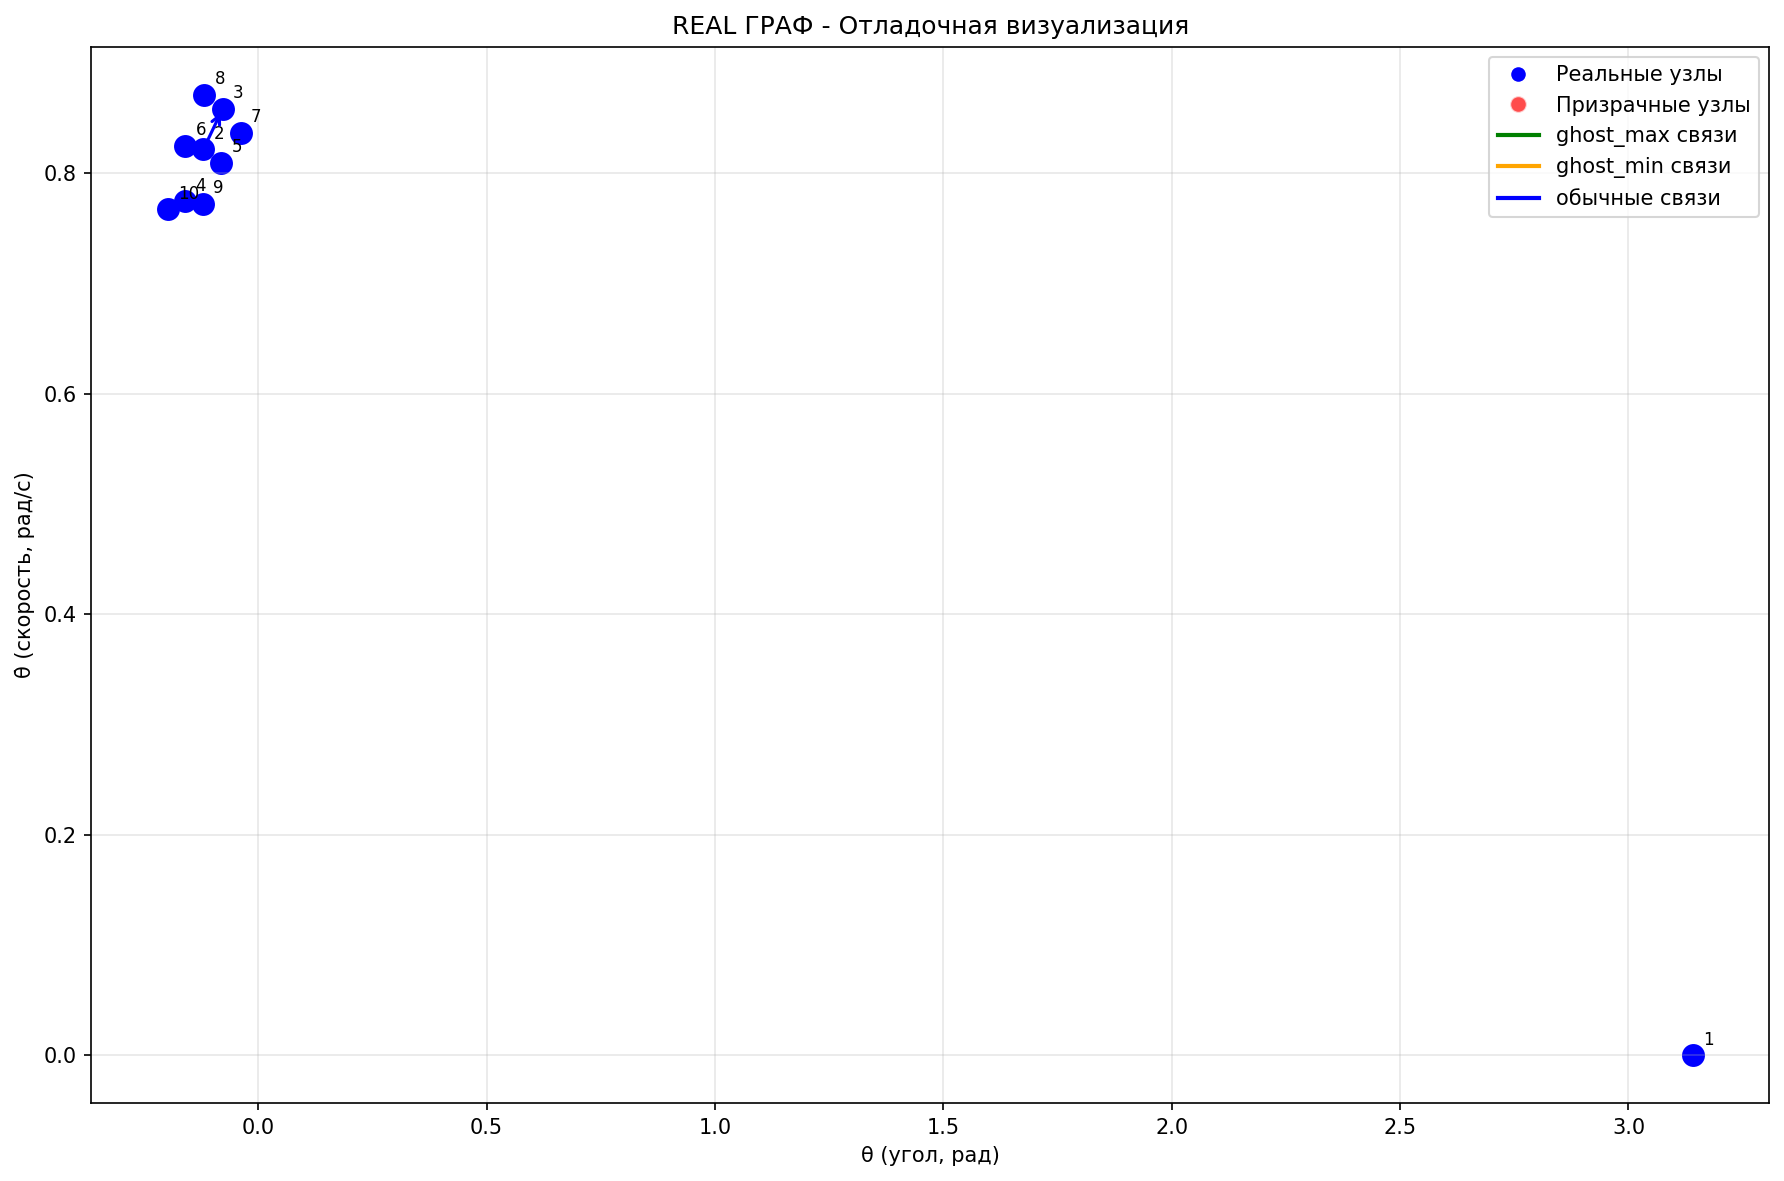
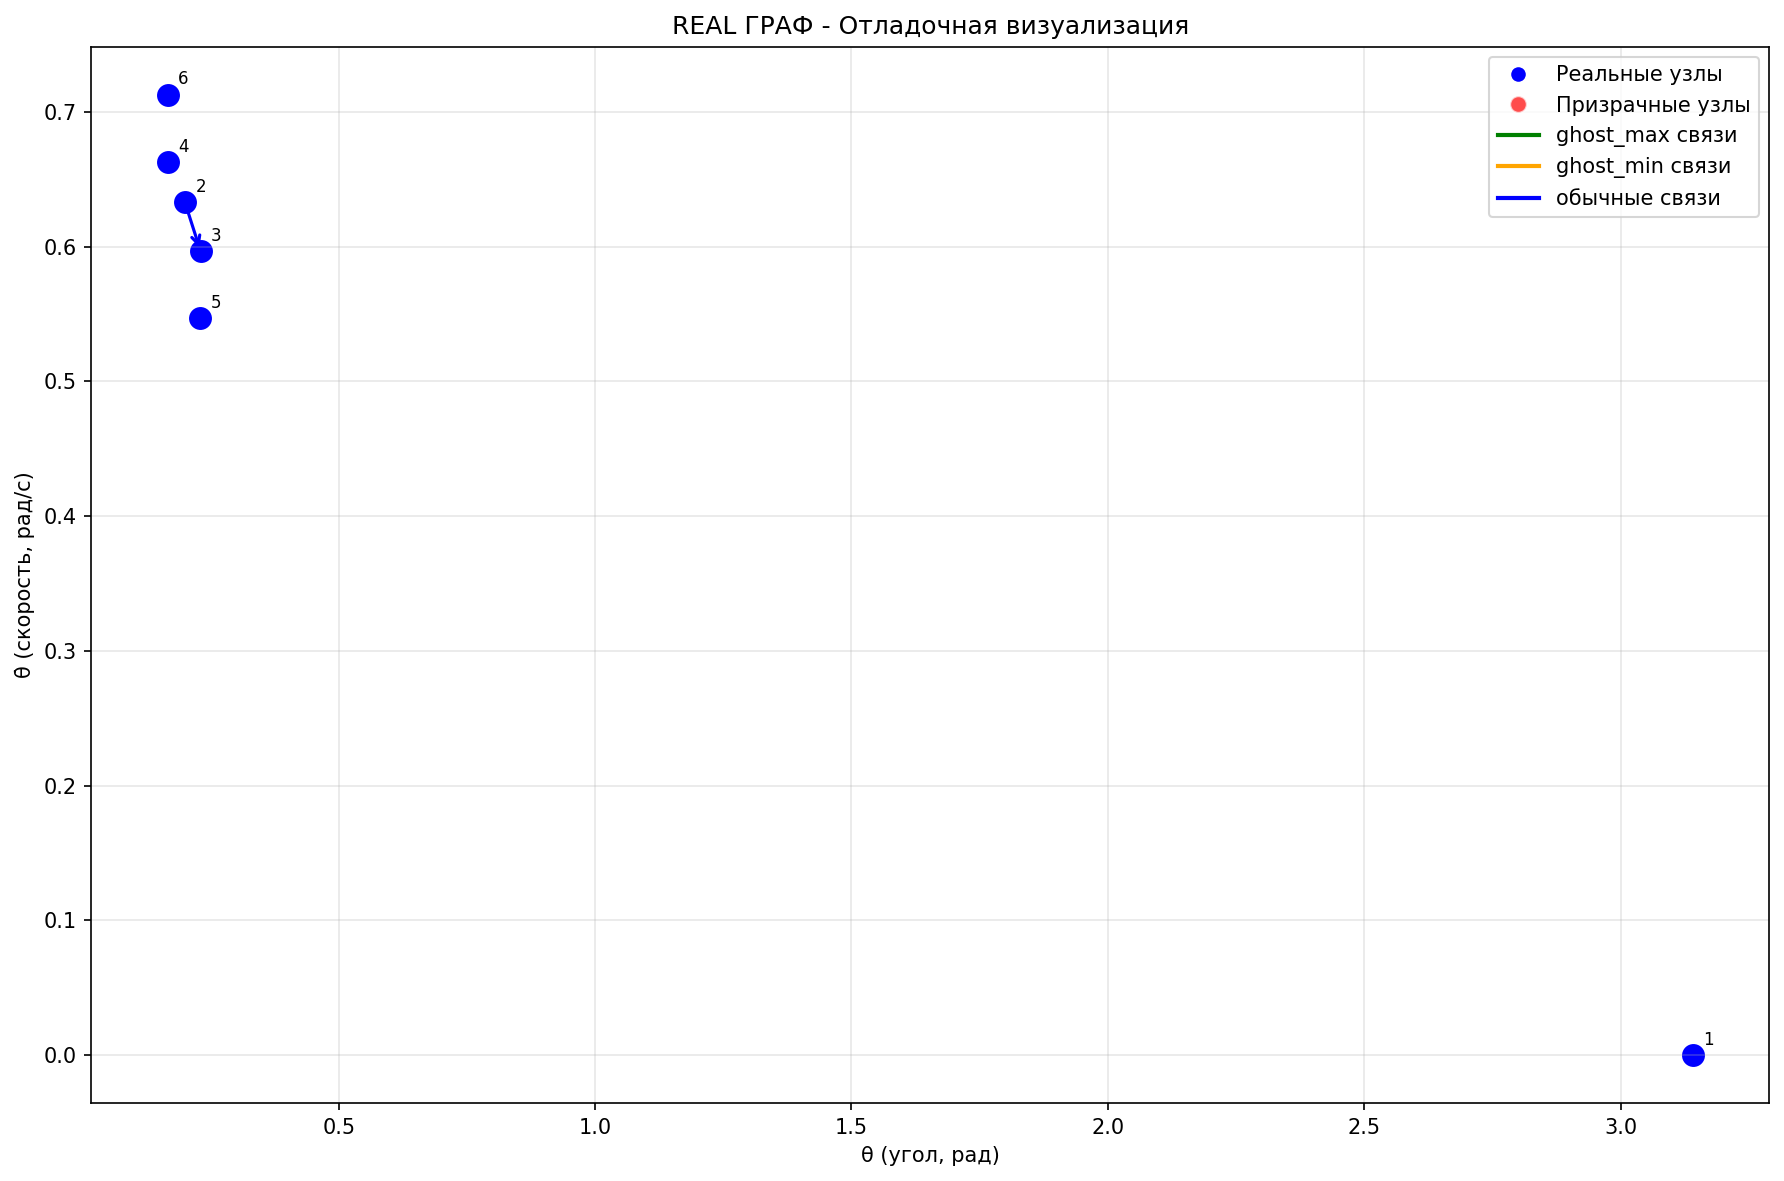
споры не добавляются в зум менеджер

diff --git a/spores/v16_picker/src/managers/buffer_merge_manager.py b/spores/v16_picker/src/managers/buffer_merge_manager.py
@@ -855,7 +855,7 @@ class BufferMergeManager:
                 spore_manager, zoom_manager, color_manager, pendulum, config, materialize_stats)
             
             # 2. Создаем реальные связи
-            self._create_real_links(spore_manager, real_spores_map, materialize_stats)
+            self._create_real_links(spore_manager, real_spores_map, materialize_stats, zoom_manager, config)
             
             # 3. Создаем визуализацию реального графа  
             visualization_path = self._create_real_graph_visualization(spore_manager)
@@ -920,6 +920,7 @@ class BufferMergeManager:
                 # Регистрируем в ZoomManager
                 zoom_key = f"real_{buffer_id}"
                 zoom_manager.register_object(real_spore, zoom_key)
+                real_spore._zoom_manager_key = zoom_key  # Сохраняем для удаления
                 
                 # Сохраняем в карте
                 real_spores_map[buffer_id] = real_spore
@@ -938,17 +939,17 @@ class BufferMergeManager:
         
         return real_spores_map
 
-    def _create_real_links(self, spore_manager, real_spores_map, stats):
+    def _create_real_links(self, spore_manager, real_spores_map, stats, zoom_manager, config):
         """Создает реальные связи из буферных связей."""
         print(f"\n   🔗 СОЗДАНИЕ РЕАЛЬНЫХ СВЯЗЕЙ:")
         
         # Импортируем Link
         from ..visual.link import Link
         
-        # Цвета для разных типов связей
+        # Цвета для разных типов связей  
         link_colors = {
-            'buffer_max': 'link_max',    # Красный для u_max
-            'buffer_min': 'link_min'     # Синий для u_min
+            'buffer_max': 'ghost_max',    # Красный для u_max
+            'buffer_min': 'ghost_min'     # Синий для u_min
         }
         
         for link in self.buffer_links:
@@ -974,16 +975,24 @@ class BufferMergeManager:
                 visual_link = Link(
                     parent_spore=parent_spore,
                     child_spore=child_spore,
+                    zoom_manager=zoom_manager,
                     color_manager=spore_manager.color_manager,
-                    color_key=color_key,
-                    thickness=spore_manager.config.get('spore', {}).get('link_thickness', 1)
+                    config=spore_manager.config
                 )
+                
+                # Устанавливаем цвет после создания
+                visual_link.color = spore_manager.color_manager.get_color('link', color_key)
                 
                 # Устанавливаем ID
                 visual_link.id = f"real_link_{parent_buffer_id}_to_{child_buffer_id}"
                 
-                # Добавляем в SporeManager
-                spore_manager.add_link_manual(visual_link)
+                # Добавляем в SporeManager (правильная последовательность)
+                spore_manager.links.append(visual_link)
+                
+                # Регистрируем в ZoomManager
+                link_id = zoom_manager.get_unique_link_id()
+                zoom_manager.register_object(visual_link, link_id)
+                visual_link._zoom_manager_key = link_id  # Сохраняем для удаления
                 
                 # Добавляем связь в граф
                 spore_manager.graph.add_edge(
